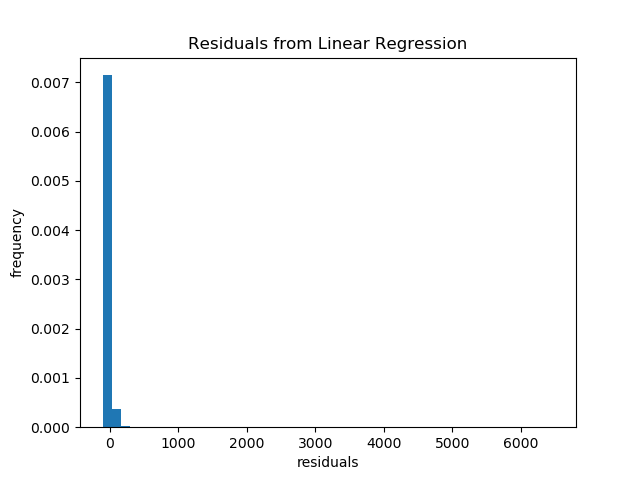
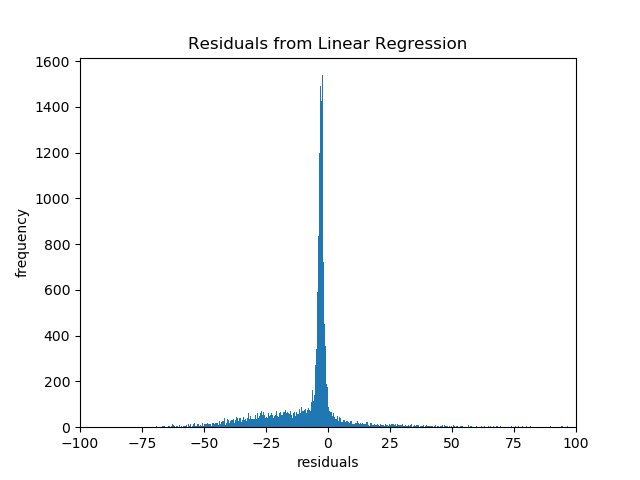
correct graph x (-100,100)

diff --git a/day5-lunch/residuals.py b/day5-lunch/residuals.py
@@ -26,7 +26,8 @@ ols_result =  model.fit()
 # print (ols_result.summary())
 print (ols_result.resid)
 fig, ax = plt.subplots()
-ax.hist(ols_result.resid, bins = 50, density = True)
+ax.hist(ols_result.resid, bins = 1000, range=(-100,100))
+ax.set_xlim((-100,100))
 plt.title('Residuals from Linear Regression')
 plt.xlabel('residuals')
 plt.ylabel('frequency')
